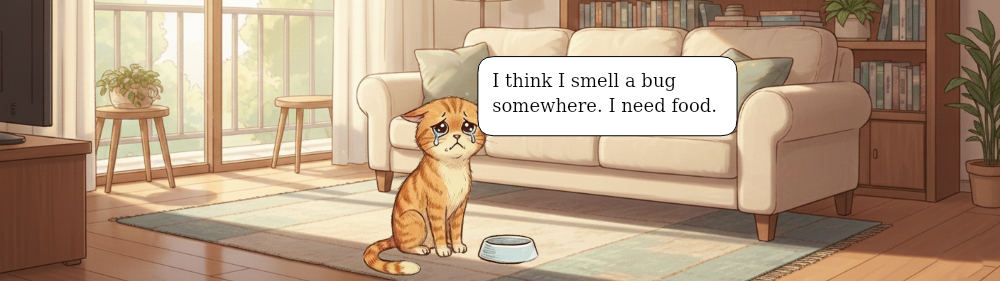
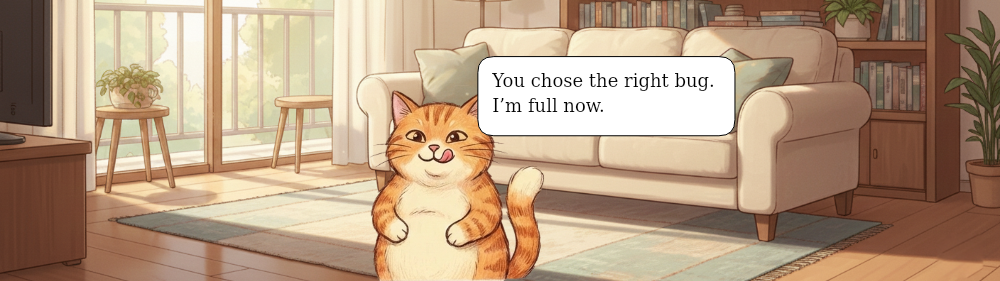
Issue handler Job automated file update

Changed region(s): [[0.341, 0.1993, 0.744, 1.0]]

diff --git a/README.md b/README.md
@@ -46,13 +46,15 @@ I enjoy designing systems that scale and last, not just shipping features.
 
 Exploring open source sometimes makes me forget to give extra attention to **Dal-Meow**, my cat. If you’re visiting my GitHub and notice you can play with her below, feel free to jump in, she’d love it. It’s fun, I promise 😆
 
-![Main Screen](assets/mainscreen.png?t=1767084952246)
+![Main Screen](assets/mainscreen.png?t=1767085025150)
 
-> The cat favorite food is bug. Choose the buggy code from option below.
+> Well done. The cat enjoyed that bug.
+(Reason: The logic `age < 18 && age > 65` will never be true, so no one will ever qualify for the discount. It should be `age < 18 || age > 65`.)
+[[Back to Main Menu]](https://github.com/aldhosutra/aldhosutra/issues/new?template=close.md)
 
 
 
-### Option 1
+### Picked Option
 
 ```typescript
 export function isEligibleForDiscount(age: number) {
@@ -62,42 +64,19 @@ export function isEligibleForDiscount(age: number) {
 	return false;
 }
 ```
-[![Pick This Button](assets/action//pick.png)](https://github.com/aldhosutra/aldhosutra/issues/new?template=pick-option-1.md)
-
-
-### Option 2
-
-```typescript
-export function isNil(value: any) {
-	return value === null || value === undefined;
-}
-```
-[![Pick This Button](assets/action//pick.png)](https://github.com/aldhosutra/aldhosutra/issues/new?template=pick-option-2.md)
-
-
-### Option 3
-
-```typescript
-export function findMaxValue(numbers: number[]) {
-	if (numbers.length === 0) {
-		return -Infinity;
-	}
-	return Math.max(...numbers);
-}
-```
-[![Pick This Button](assets/action//pick.png)](https://github.com/aldhosutra/aldhosutra/issues/new?template=pick-option-3.md)
 
 
 <details>
 <summary>🏆 Leaderboard & Stats</summary>
 
-![Successful Feeds](https://img.shields.io/badge/successful_feed-0-orange?style=for-the-badge)
+![Successful Feeds](https://img.shields.io/badge/successful_feed-1-orange?style=for-the-badge)
 ![Successful Baths](https://img.shields.io/badge/successful_bath-0-blue?style=for-the-badge)
 ![Successful Pets](https://img.shields.io/badge/successful_pet-0-green?style=for-the-badge)
     
 
 | Rank | User | Score |
 | ---- | ---- | ----- |
+| 1 | [aldhosutra](https://github.com/aldhosutra) | 1 |
 
 </details>
 <!-- EASTER_EGG: Ahhh you found me! By the way, only between us, I love playing silksong! -->
